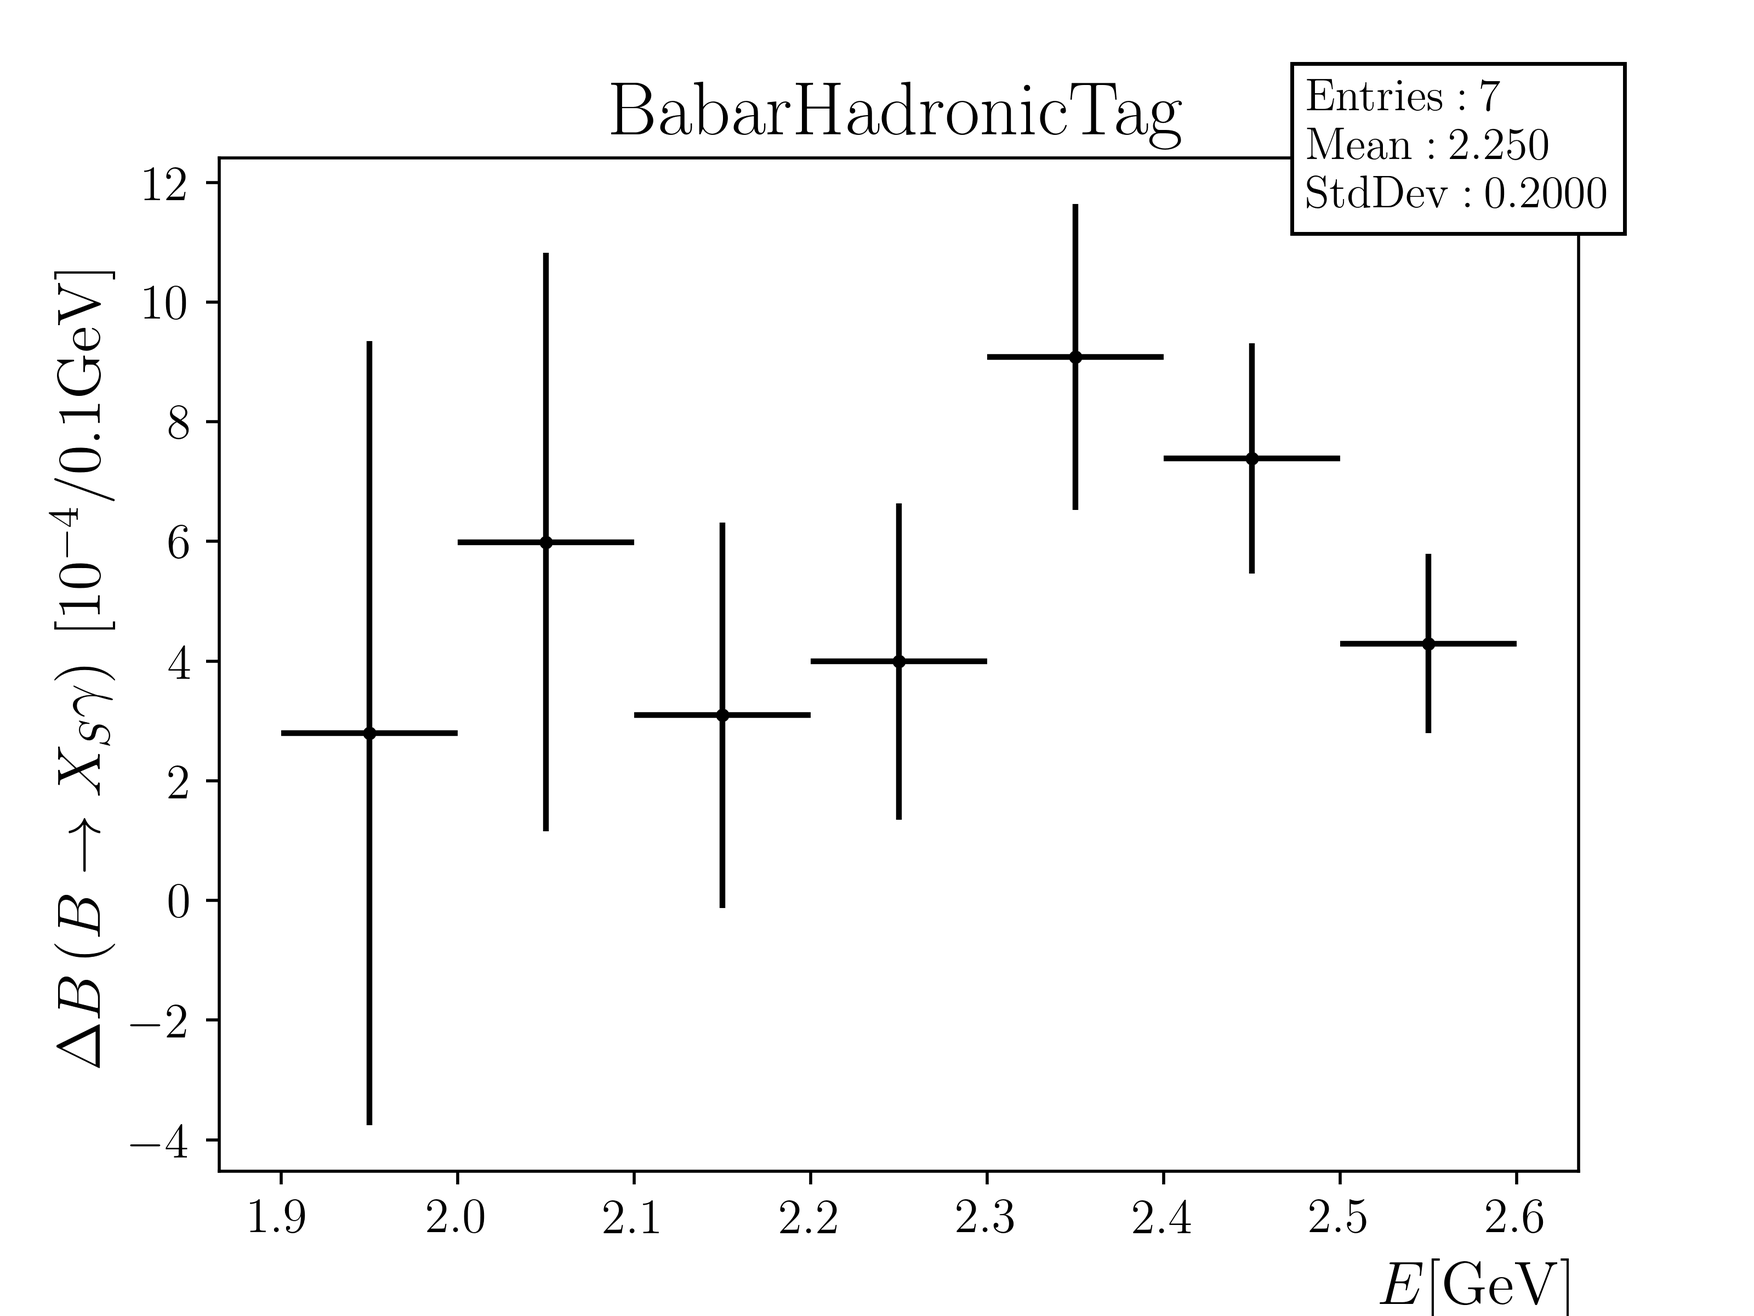
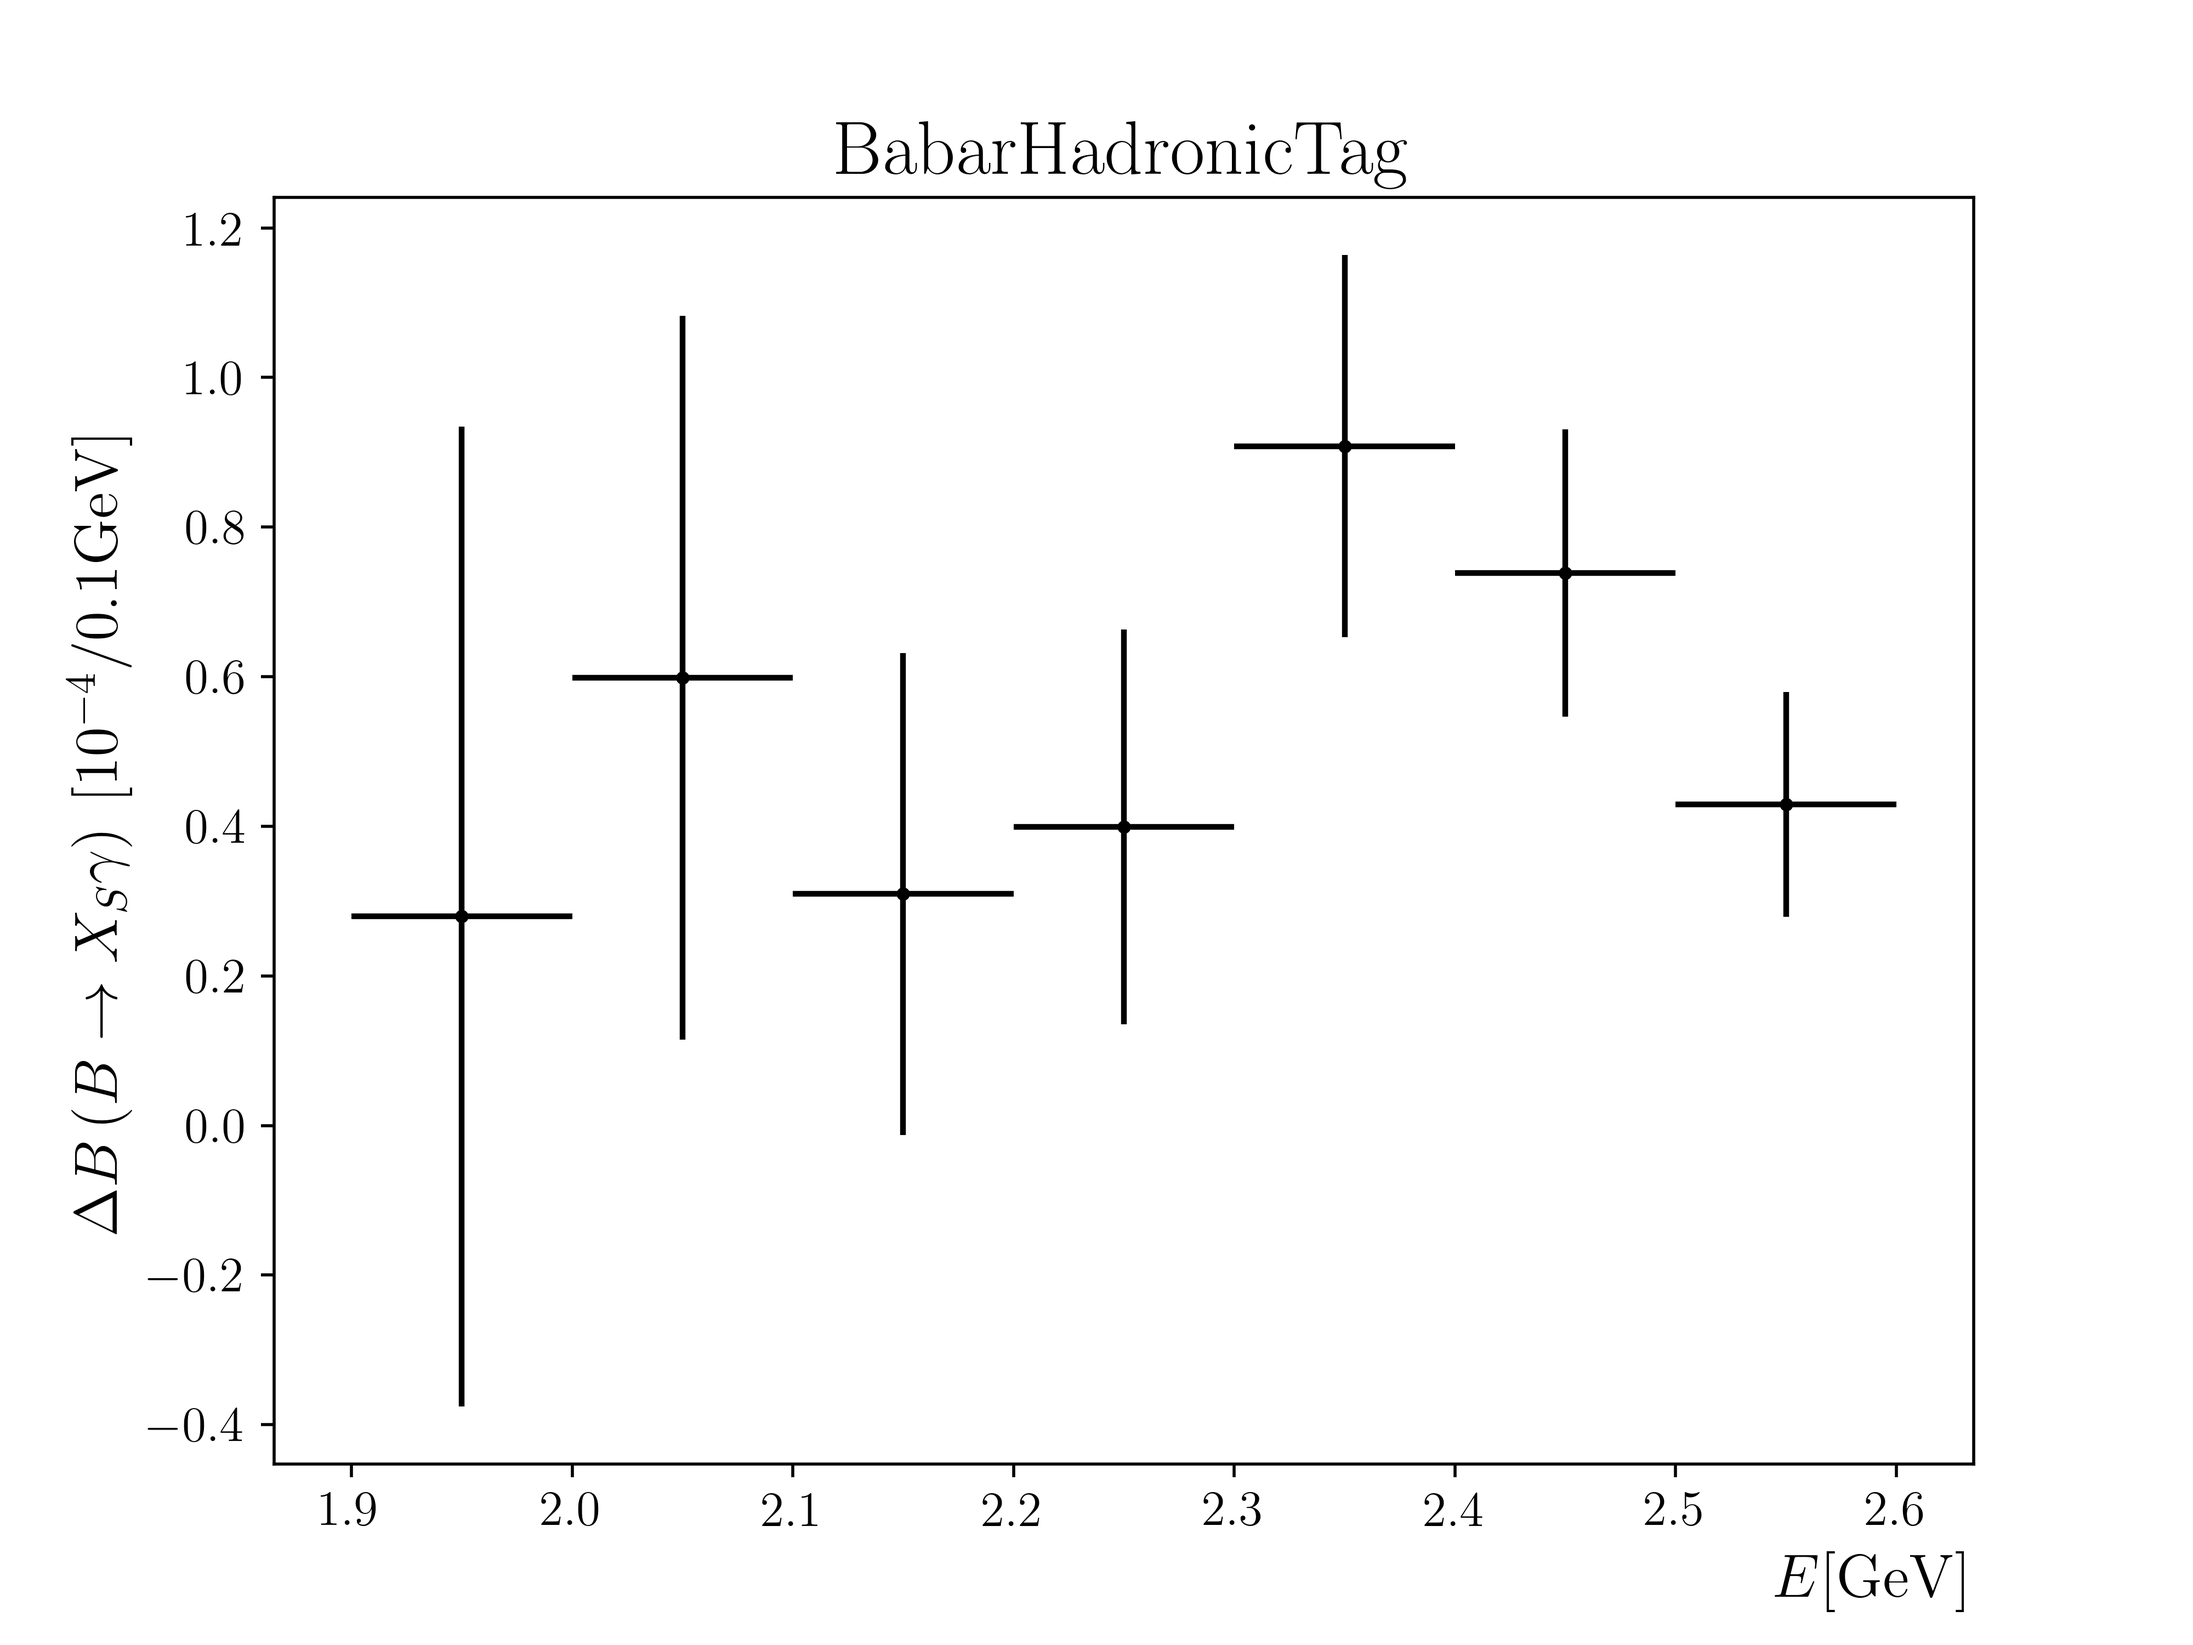
Fit suddenly fitting aaaaaaah

diff --git a/Meas.py b/Meas.py
@@ -49,13 +49,10 @@ class Theory:
         self.SubleadTheory = Tools.PickleToDict(settings.config["SubleadingTheoryPath"])
 
         #Dictionary with experimental data
-        self.exp_data = Tools.PickleToDict(settings.config["MeasurementPath"])
+        self.ExpData = Tools.PickleToDict(settings.config["MeasurementPath"])
         
-        #Histogram Dictionary from Root Data
-        self.hist_nom = Tools.PickleToDict("theory/hist_nom") #TODO: Ihn will ich nicht mehr als Meas Objekt haben, muss als Plot Objekt chillen
-
         #Moments Dictionary
-        self.Fmn_moments = Tools.PickleToDict(settings.config["TheoryMomentsPath"])
+        self.FmnMoments = Tools.PickleToDict(settings.config["TheoryMomentsPath"])
 
         # Variables that will get a value in the process
         self.chisq: float
@@ -64,13 +61,11 @@ class Theory:
         self.M2: float
         self.M3: float
         self.la: float
-
-        return
     
     # Calculates the BsgPrediction for every given Theory in TheoryOrder and the SubLeadingBsgPrediction for every given SubLeadTheoryOrder. Results into the final Prediction with leading and subleading Theory combined
     def FullBsgPrediction(self, key: str, end: str, c_n_params: npVector, norm: float) -> npVector:
 
-        pred = np.zeros(np.size(self.exp_data[key]['dBFs']))
+        pred = np.zeros(np.size(self.ExpData[key]['dBFs']))
         self.mb = self.mb1SPrediction(c_n_params)
 
         # Full leading prediction
@@ -82,7 +77,7 @@ class Theory:
             pred += self.BsgSubLeadingPrediction(key, self.SubLeadPars(c_n_params, settings.SubLeadCoefficients[order]), norm) * self.TheoryPrefactor(settings.SubLeadTheoryOrder, norm)
 
         # Multiply with Smearing-Matrice
-        pred = np.matmul(self.exp_data[key]['Smear'],pred) 
+        pred = np.matmul(self.ExpData[key]['Smear'],pred) 
 
         return pred
         
@@ -121,7 +116,7 @@ class Theory:
     # Returns a prediction array for one specific experiment with one specific lambda
     def BsgPrediction(self, key: str, mid: str, end: str, c_n_params: npVector, norm: float) -> npVector:      
         pred = np.array([])
-        for i in range(np.size(self.exp_data[key]['dBFs'])):
+        for i in range(np.size(self.ExpData[key]['dBFs'])):
             value = 0
             for j in range(np.size(c_n_params)):
                 for k in range(np.size(c_n_params)):
@@ -135,7 +130,7 @@ class Theory:
     # Returns a the subleading prediction for a given measurement
     def BsgSubLeadingPrediction(self, key:str, c_n_params: npVector, norm: float) -> npVector:
         pred = np.array([])
-        for i in range(np.size(self.exp_data[key]['dBFs'])):
+        for i in range(np.size(self.ExpData[key]['dBFs'])):
             value = 0
             for j in range(np.size(c_n_params)):
                 value +=  self.SubleadTheory[key]['la'+ settings.SubLeadBasisExpansion]['Values'][i][0][j] * c_n_params[j]
@@ -168,11 +163,11 @@ class Theory:
     
     # Calculate shape fuction moment of order 'order'
     def Moment(self, c_n_params: npVector, order: int) -> float:
-        if (order > np.size(self.Fmn_moments[settings.config["TheoryTag"]]['Moment'])): print('Theory.Moment(): requested an order of moment, that cannot be calculated')
+        if (order > np.size(self.FmnMoments[settings.config["TheoryTag"]]['Moment'])): print('Theory.Moment(): requested an order of moment, that cannot be calculated')
         value = 0
 
         # Prepares Moment, using the lambda for which the fit is currently calculated
-        prepared_moment = np.pow(Tools.StrToLambda(settings.SubLeadBasisExpansion), order) * self.Fmn_moments[settings.config["TheoryTag"]]['Values'][order]
+        prepared_moment = np.pow(Tools.StrToLambda(settings.SubLeadBasisExpansion), order) * self.FmnMoments[settings.config["TheoryTag"]]['Values'][order]
         for i in range(np.size(c_n_params)):
             for j in range(np.size(c_n_params)):
                 value += prepared_moment[i][j] * c_n_params[i] * c_n_params[j]
@@ -238,7 +233,7 @@ class Theory:
             # If there is no minimum set in the config file for a measurement, then the minimum is zero
             minimum[key] = settings.config["Minimum"].get(key, 0)
 
-            size += np.size(self.exp_data[key]['dBFs'])-minimum[key]
+            size += np.size(self.ExpData[key]['dBFs'])-minimum[key]
 
         Cov_glob = np.zeros((size,size))
 
@@ -247,15 +242,15 @@ class Theory:
         for key in settings.KeyOrder:
 
             # Determine # of Bins
-            nbins = np.size(self.exp_data[key]['dBFs'])
+            nbins = np.size(self.ExpData[key]['dBFs'])
             min = minimum[key]
             max = nbins # No Option yet to have a different Maximum. Could be implemented similar to the minimum though
 
             # Construct individual matrices to store predictions and measurements
             full_pred = Theory.FullBsgPrediction(self,key, settings.BasisExpansion, cn, norm)
             pred =  full_pred[min:max+1]
-            meas = self.exp_data[key]['dBFs'][min:max+1]
-            Cov = self.exp_data[key]['Cov'][min:max+1,min:max+1]
+            meas = self.ExpData[key]['dBFs'][min:max+1]
+            Cov = self.ExpData[key]['Cov'][min:max+1,min:max+1]
             
             # Add to global prediction
             pred_glob = np.append(pred_glob, pred)

diff --git a/Results.py b/Results.py
@@ -1,6 +1,6 @@
 import numpy as np
 import matplotlib.pyplot as plt 
-from Meas import Meas
+from Meas import Theory
 from Meas import settings
 from matplotlib import rc
 from Tools import Tools
@@ -12,5 +12,86 @@ plt.rcParams.update({'font.size': 13})
 
 class result:
 
+
+
     def __init__(self):
+        #Dictionary with experimental data
+        self.ExpData = Tools.PickleToDict(settings.config["MeasurementPath"])
+        
+        #Histogram Dictionary from Root Data
+        self.HistNomFit = Tools.PickleToDict("theory/hist_nom")
+
         pass
+
+    def PrepareExpData(self, key: str, div_bin: bool = False):
+
+        # Calculate the middle of the bin
+        # x error (dx) is bin width
+        x = np.zeros(np.size(self.ExpData[key]['dBFs']))
+        dx = np.zeros(np.size(self.ExpData[key]['dBFs']))
+        for i in range(np.size(self.ExpData[key]['dBFs'])):
+            dx[i] = (self.ExpData[key]['Bins'][i+1] - self.ExpData[key]['Bins'][i])/2
+            x[i] = dx[i]+self.ExpData[key]['Bins'][i]
+        
+        # Divide by the width of the bin or not
+        if(div_bin == False):
+            y = self.ExpData[key]['dBFs']
+            dy = self.ExpData[key]['dBFErrors']
+        else:
+            y = self.ExpData[key]['dBFs']/(2*dx)
+            dy = self.ExpData[key]['dBFErrors']/(2*dx)
+
+        ''' Catch Scale for Measurements '''
+        #if key == 'belle': #TODO: BELLE SCALE WHAAAT?
+        #    ax.errorbar(x, y, dy, dx, fmt = 'k.', markersize = 5, label = '$\\mathrm{Exp. Data}$')
+        #    ax.set_ylabel('$\\mathrm{Events} \\: [10^{3}  / 50 \\mathrm{MeV}]$', fontsize = 16)
+        
+        # return the Label of the Measurement to put in the title
+        label = self.ExpData[key]['Label']
+
+        return x, y, dx, dy, label 
+
+
+    def SimplePlot(ax, x, y, dx = None, dy = None, label: str = None , box_opt: bool = False):
+
+        # Set Box options
+        if (box_opt):
+            textstr = '\n'.join((
+                '$\\mathrm{Entries:} \\: %d$' % (np.size(x),),
+                '$\\mathrm{Mean:} \\: %0.3f$' % (x.mean(),),
+                '$\\mathrm{Std Dev:} \\: %0.4f$' % (x.std(),)))
+            ax.text(0.8,0.95,textstr,fontsize=12,color="black",bbox=dict(facecolor="white", alpha=1, edgecolor="black"), transform = ax.transAxes)
+        
+        
+        ax.errorbar(x, y, dy, dx, fmt = 'k.', markersize = 5, label = '$\\mathrm{Exp. Data}$')
+        ax.set_ylabel('$\\Delta B \\left( B \\rightarrow X_S \\gamma \\right) \\: [10^{-4}  / 0.1 \\mathrm{GeV}]$', fontsize = 16)
+              
+        ax.set_xlabel('$E[\\mathrm{GeV}]$', fontsize = 16, loc = "right")
+        ax.set_title('$\\mathrm{%s}$' % label, fontsize = 20)
+
+        return
+    
+    #def CalculatePrediction():
+
+
+    #def calc_pred(self, key, an):
+    #    cn = Meas.ConvertPars(an)
+    #    norm = an[0]
+    #    pred  = self.measurement.FullBsgPrediction(key,settings.BasisExpansion, cn, norm)
+    #    #if key == 'belle': pred*= 1/1000
+
+    #    return pred
+    
+    def Plot(self, key, div_bin = False, box_opt = False):
+        fig, ax = plt.subplots(figsize=(8, 6))
+
+        x, y, dx, dy, label = result.PrepareExpData(self, key, div_bin)
+        result.SimplePlot(ax, x, y, dx, dy, label, box_opt)
+        fig.savefig('data/'+key, dpi = 500)
+
+        return
+    
+
+
+res = result()  
+res.Plot('babar_hadtag', False, False)

diff --git a/fitter.py b/fitter.py
@@ -8,22 +8,30 @@ from Meas import settings
 from Meas import Theory
 
 class Fitter:
+     
      def __init__(self):
-         pass
+         
+         m: Minuit
+
+         mb: float
+         chisq: float
+
+         theo: Theory
+
     
     #start_pars: Which start parameters will be used
-    #number_pars: How many parameters will be fitted, so how many of start_pars will be used
+    #NumbPar: How many parameters will be fitted, so how many of start_pars will be used
     #no_meas: how many measurements will be included in the fit
     #with_minos: Calculate the fit with or without minos
-     def DoFit(start_pars, number_pars = 4, no_meas = 2, with_minos = True):
-        
-        sets = settings()
-        sets.KeyOrder = sets.KeyOrder[0:no_meas]
-        print('Fit for: '+ str(sets.KeyOrder))
+     def DoSingleFit(self, NumbPar: int = 3, with_minos = True):
+
+        ########################
+        print('Fit for: '+ str(settings.KeyOrder) + ' using %d parameters' % NumbPar)
+        ########################
 
         mes = Theory()
 
-        m = Minuit(mes.Chisq, start_pars[0:number_pars])
+        m = Minuit(mes.Chisq, settings.config["StartValues"][0:NumbPar], name = settings.config["FitVars"][0:NumbPar])
         value = mes.Chisq(np.array(m.values))
         m.print_level = 1
 
@@ -35,16 +43,17 @@ class Fitter:
         m.migrad(ncall= 100000, use_simplex= True)
         m.hesse()
         
-        chisq = mes.chisq
-        mb = mes.mb
+        self.chisq = mes.chisq
+        self.mb = mes.mb
 
         if with_minos == True:
             m.minos()
         
         value = mes.Chisq(np.array(m.values))
             
-        return m, mes, chisq, mb
+        return m, mes, self.chisq, self.mb
      
+     '''
      #Calculates fits with several numbers of fitting Parameters for a specific number of measurements
      def CollectFitData(start_pars, start_numb_pars, end_numb_pars, no_meas = 2, with_minos = True):
         results = {}
@@ -64,7 +73,8 @@ class Fitter:
         }
 
         return overall
-'''
+     
+
 start_pars = np.array([1, 0.00506919, 0.0, 0.0798100, 0.0870341, 0.0250290, 0.0])
 
 collected_fits ={
